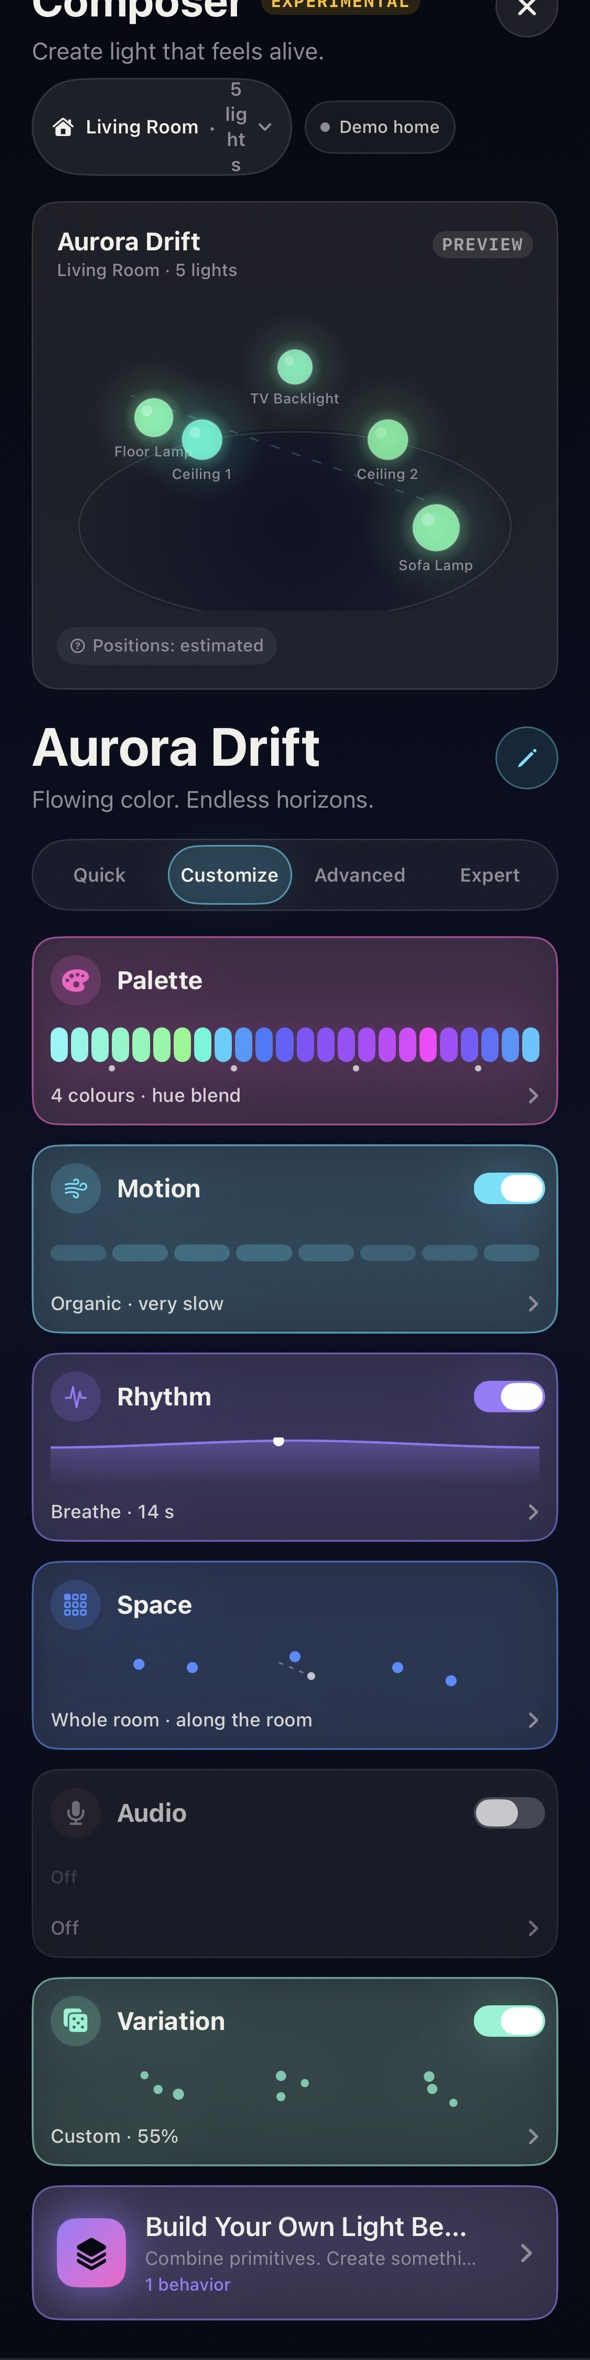
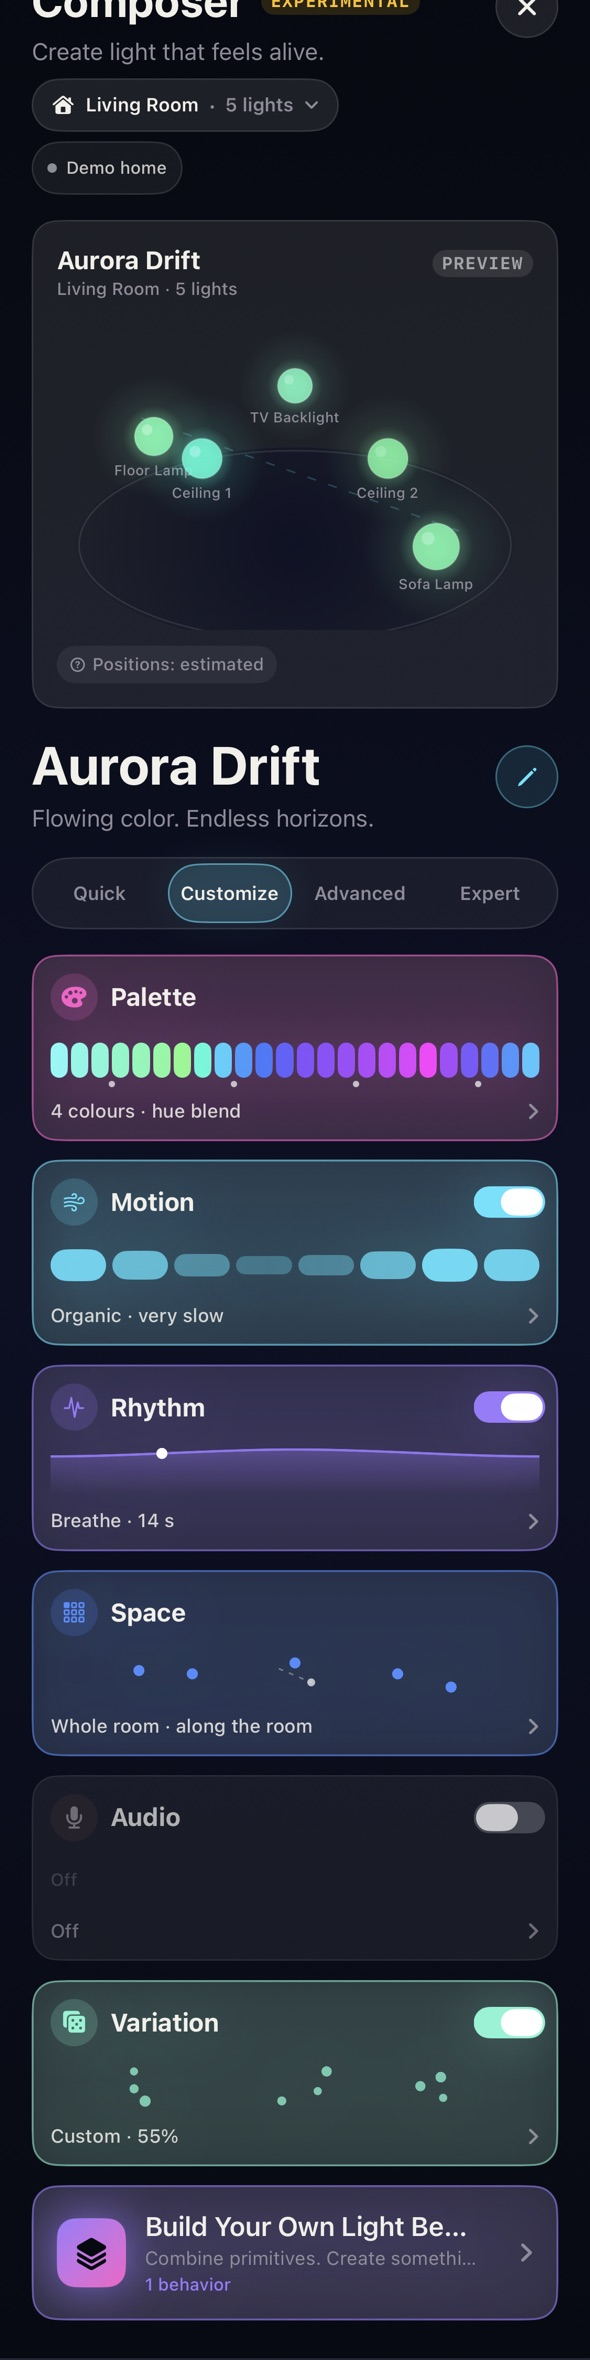
docs(composer2-lab): record, DEVLOG entry, refreshed renders, build 53
The lab's record (architecture, seam, presets, how to run, verified-vs-not,
limitations, removal recipe) under docs/ios/composer2-dream-studio, the
DEVLOG snapshot bullet + dated entry, review renders regenerated from the
full-suite run after the card-title and room-pill fitting fixes, and
CURRENT_PROJECT_VERSION 52 -> 53 in all twelve entries so a device install
of the experiment is distinguishable.

Full registered suite on this tree: 2198 passed / 0 failed / 0 skipped;
Scripts/hardening_guards.sh: all guards passed. Hardware not verified.

diff --git a/HueHome/UI/Composer2/Composer2Header.swift b/HueHome/UI/Composer2/Composer2Header.swift
@@ -26,9 +26,15 @@ struct Composer2Header: View {
                 Text(Composer2Copy.tagline)
                     .font(HueFont.subheadline)
                     .foregroundStyle(Composer2Theme.muted)
-                HStack(spacing: 8) {
-                    roomMenu
-                    stateChip
+                ViewThatFits(in: .horizontal) {
+                    HStack(spacing: 8) {
+                        roomMenu
+                        stateChip
+                    }
+                    VStack(alignment: .leading, spacing: 6) {
+                        roomMenu
+                        stateChip
+                    }
                 }
                 .padding(.top, 2)
             }
@@ -72,6 +78,8 @@ struct Composer2Header: View {
                 Text(Composer2Copy.lights(document.roomContext.lightCount))
                     .font(HueFont.stageChip)
                     .foregroundStyle(Composer2Theme.muted)
+                    .lineLimit(1)
+                    .fixedSize()
                 Image(systemName: "chevron.down")
                     .font(.system(size: 9, weight: .bold))
                     .foregroundStyle(Composer2Theme.muted)

diff --git a/HueHome/UI/Composer2/Composer2LayerCard.swift b/HueHome/UI/Composer2/Composer2LayerCard.swift
@@ -22,20 +22,21 @@ struct Composer2LayerCard<Preview: View>: View {
 
     var body: some View {
         VStack(alignment: .leading, spacing: 10) {
-            HStack(spacing: 10) {
+            HStack(spacing: 8) {
                 ZStack {
                     Circle()
                         .fill(accent.opacity(isOn ? 0.18 : 0.08))
-                        .frame(width: 32, height: 32)
+                        .frame(width: 30, height: 30)
                     Image(systemName: dimension.symbol)
-                        .font(.system(size: 14, weight: .semibold))
+                        .font(.system(size: 13, weight: .semibold))
                         .foregroundStyle(isOn ? accent : Composer2Theme.muted)
                 }
                 Text(dimension.title)
                     .font(HueFont.stageName)
                     .foregroundStyle(Composer2Theme.ink)
                     .lineLimit(1)
-                    .minimumScaleFactor(0.65)
+                    .minimumScaleFactor(0.55)
+                    .allowsTightening(true)
                     .layoutPriority(1)
                 Spacer(minLength: 2)
                 if showsToggle {

diff --git a/docs/ios/composer2-dream-studio/README.md b/docs/ios/composer2-dream-studio/README.md
@@ -1,0 +1,127 @@
+# Composer 2 — "Dream Studio" experiment
+
+**Branch:** `experiment/composer-2-dream-studio` (off `main` @ `c2368c8`). **Isolated product prototype.** Not a PR, not merged, `main` untouched.
+**Rollback:** `git switch main` — or delete the branch; tag `checkpoint/pre-composer2-dream-studio` marks the base.
+
+## What it is
+
+A one-shot prototype of the creative lighting instrument ChromaGlow should become: one screen where a normal person
+composes dynamic light from six understandable dimensions (Palette, Motion, Rhythm, Space, Audio, Variation), and an
+advanced user stacks behaviors with an event generator. Aurora Drift, Lava Lamp, Christmas Chase, Haunted House and
+Thunderstorm are all values of the same model — there are no per-preset engines.
+
+Entry point: Studio → composer deck → **"Try Composer 2 · Experimental"** (one card, one line in `StudioView.composerGrid`).
+
+## Architecture in one picture
+
+```
+Composer2Composition  (Codable document: master controls + [Composer2Layer])
+   └ Composer2Layer   mask · color (≤8 stops, OKLab) · motion · rhythm · audio · variation · events?
+          │
+   Composer2Engine.evaluate(composition, time, geometry, state, audio, beat) → [Composer2Frame]   (pure, seeded)
+          │
+   Composer2LiveOutput : CompositionFrameSource            ← the ONLY seam into the existing app
+          │
+   CompositionParamBox.frameSource  →  CompositionEngine.render(...)  (12-line hook, falls through on mismatch)
+          │
+   UnifiedOrchestrator.startCompositionMode / stopCompositionMode  (untouched: DTLS 25 fps or Room-mode REST,
+   per-bridge sessions, third-party detection, realized-frame ≤3 Hz flash gate, failover, SSE suppression, mic demand)
+```
+
+The hero visualization and the lights read the same frames: while a live loop drives the runtime the hero mirrors
+`lastFrames`; otherwise it evaluates the same runtime on its own clock. Every on-screen frame passes a preview-side
+onset gate (`BeatMath.FlashSafety.OnsetGate`), so the picture obeys the same ≤3 flashes/second rule as the wire.
+
+### Determinism
+
+Every random value is a pure function of `(seed, layer id, slot, cell/opportunity index)` — SplitMix64 streams and
+stateless hashes, never `Hasher`, never a clock. Events draw exactly twice per scheduling opportunity regardless of
+frame rate or audio; audio only tilts thresholds and multipliers. The same seed reproduces the same sequence;
+"Reseed" in the Variation editor gives a fresh take.
+
+### Blend semantics (documented, deliberately simple)
+
+Layers stack bottom-up over black. `replace` fades toward the layer; `add light` adds brightness with
+contribution-weighted colour; `brighter wins` keeps the brighter layer per light (5 % soft band). Final brightness is
+clamped 0…1 and chromaticity is clamped to gamut C; the orchestrator clamps again to the room's real gamut.
+
+## Files
+
+| Area | Files |
+|---|---|
+| Core (`HueHome/Core/Composer2/`) | `Composer2Random` (math, SplitMix64, hashing, value noise) · `Composer2Palette` (OKLab, stops, compiled palette) · `Composer2Space` (slot geometry from the orchestrator's radial/angular arrays, masks) · `Composer2Motion` · `Composer2Rhythm` · `Composer2Modulation` (audio + variation) · `Composer2Events` (spec, active event, seeded generator) · `Composer2Models` (blend, layer, composition) · `Composer2Engine` (state, plans, evaluate) · `Composer2LiveOutput` (the frame source) · `Composer2PresetLibrary` · `Composer2Store` (`Documents/composer2-compositions.json`) · `Composer2LegacyImport` |
+| UI (`HueHome/UI/Composer2/`) | `Composer2View` (cover root) · `Composer2Header` (+ title block) · `Composer2HeroCard` (canvas painter) · `Composer2ModeSelector` · `Composer2QuickPanel` · `Composer2CustomizeGrid` + `Composer2LayerCard` + `Composer2MiniPreviews` · `Composer2AdvancedPanel` · `Composer2ExpertStack` · `Composer2PerformanceBar` · `Composer2EntryCard` · `Composer2Document` · `Composer2SlotLayout` · `Composer2PreviewFeed` (+ heartbeat verdict) · `Composer2LiveGateway` (+ orchestrator adapter) · `Composer2PlaybackCenter` · `Composer2Theme` (tokens + all copy) · `Editors/` (scaffold, Palette, Motion, Rhythm, Space, Audio, Variation, Events) |
+| Existing files touched | `HueHome/UI/Studio/CompositionEngine.swift` (protocol + field + 8-line hook) · `HueHome/Core/Audio/AudioAnalysisEngine.swift` (`case composer2Preview`) · `HueHome/UI/Studio/StudioView.swift` (one line) · `HueHome.xcodeproj/project.pbxproj` (registration via `add_composer2_files.rb`, build 53) · `DEVLOG.md` |
+| Tests (`HueHomeTests/Composer2Lab*Tests.swift`) | Primitive · Layer · Event · Engine · Persistence · Preset · Lifecycle · Guard · Snapshot |
+
+## Live, Apply, Preview, Save
+
+- **Preview** runs the composition on screen only. The microphone is requested only when an audio-reactive layer is
+  enabled *and* preview or live is running (`AudioDemand.composer2Preview`).
+- **Live** is an audition: real output to the selected room, stopped when you leave the screen, change rooms, tap
+  Stop, or the transport ends. The status line says "Live · Streaming" or "Live · Room mode".
+- **Apply** keeps the composition playing after you leave; the Studio entry card then shows "Playing in ‹room› ·
+  Stop".
+- **Save** writes to Composer 2's own store. The legacy `compositions.json` is never read or written (test-proven).
+
+Refusals are honest and never silent: Demo Mode ("Live isn't available in Demo Mode…"), no bridge, a third-party
+controller ("Another app is controlling these lights. Take over from Studio, then try Live again."), several
+Entertainment Areas (plays Room mode and says why).
+
+## The five presets
+
+| Preset | Layers |
+|---|---|
+| Aurora Drift | organic flow along the room's principal axis, 4-stop hue-arc palette, 14 s breathe, organic variation with slow evolve |
+| Lava Lamp | organic base with evolving per-light timing + an add-light "blobs" layer on another axis |
+| Christmas Chase | stepped red/green/white chase (3 steps) + a fixed-interval single-light sparkle event layer |
+| Haunted House | dim base · candle flicker on a random half · slow violet pulse (brighter wins) · rare spatially-biased eerie flashes |
+| Thunderstorm | dark sky breathe · lightning event layer (random 6–18 s, 80 % chance, 1–3 flashes, spacing ≥ the flash budget, 15 % major strikes) |
+
+## How to run
+
+```bash
+git switch experiment/composer-2-dream-studio
+ruby add_composer2_files.rb                      # idempotent; already applied on the branch
+xcodebuild -project HueHome.xcodeproj -scheme "HueHome 1" -destination 'generic/platform=iOS' build 2>&1 | grep -E 'error:|BUILD'
+./Scripts/hardening_guards.sh
+xcodebuild test -project HueHome.xcodeproj -scheme "HueHome 1" \
+  -destination 'platform=iOS Simulator,id=76B14B66-1234-495A-B352-4BD35B785131' \
+  -only-testing:HueHomeTests/Composer2LabPrimitiveTests -only-testing:HueHomeTests/Composer2LabLayerTests \
+  -only-testing:HueHomeTests/Composer2LabEventTests -only-testing:HueHomeTests/Composer2LabEngineTests \
+  -only-testing:HueHomeTests/Composer2LabPersistenceTests -only-testing:HueHomeTests/Composer2LabPresetTests \
+  -only-testing:HueHomeTests/Composer2LabLifecycleTests -only-testing:HueHomeTests/Composer2LabGuardTests \
+  -only-testing:HueHomeTests/Composer2LabSnapshotTests -resultBundlePath /tmp/c2.xcresult
+./run_tests.sh                                   # full registered suite
+xcrun xcresulttool export attachments --path /tmp/c2.xcresult --output-path /tmp/c2-shots   # the review renders
+```
+
+On a phone: Studio → composer deck → Try Composer 2 → pick a room → Live. In the Simulator use Demo Mode
+(Splash → "Explore Demo"): Preview works, Live explains that it needs a paired bridge.
+
+## Verified vs not
+
+**Compile / unit verified:** everything above builds; the nine Composer2Lab suites and the full registered suite pass;
+`Scripts/hardening_guards.sh` passes; the review renders are in `screenshots/`.
+
+**Hardware NOT verified:** real Streaming and Room-mode output, the flash gate on a bridge, replacement by a Studio
+card while applied, Apply surviving dismissal on a phone, the third-party refusal, microphone-reactive layers live,
+multi-bridge rooms. Nothing here claims hardware behavior.
+
+## Known limitations
+
+- The Dashboard's Now Playing bar does not know about Composer 2 playback (Studio's stop handler has no row for it,
+  so registering one would be a Stop that doesn't stop). Stop from the Composer 2 screen or the entry card's pill.
+- Third-party takeover is refused with a pointer to Studio; Composer 2 never asks the takeover question (Guard 11(c)).
+- Streaming slot→light labels come from the cached area selection; if the orchestrator chooses a different area the
+  labels can be off until the next start (geometry and motion stay correct — they come from the box).
+- Room mode: a gradient strip's extra render slots share one light name; positions are estimated (labelled).
+- Legacy Composer presets import into one layer (`Composer2LegacyImport`); Composer 2 compositions do not export back.
+- The hero's estimated layout also drives the on-screen preview geometry (so motion reads spatially on screen); the
+  live loop always uses the orchestrator's own slot order.
+
+## Removing the experiment
+
+Delete `HueHome/Core/Composer2/`, `HueHome/UI/Composer2/`, the nine `HueHomeTests/Composer2Lab*Tests.swift`,
+`add_composer2_files.rb`, this folder; revert the hook in `CompositionEngine.swift`, the `composer2Preview` case, the
+one line in `StudioView.swift`, and the pbxproj entries. Nothing else references the lab (guard-tested).

diff --git a/DEVLOG.md b/DEVLOG.md
@@ -4,13 +4,20 @@
 
 ---
 
-## Current Status Snapshot (updated 2026-09-02)
+## Current Status Snapshot (updated 2026-09-15)
 
 ### Pointers
 - Canonical agent context: `AGENTS.md`. Claude Code entry point: `CLAUDE.md` points there.
 - Live shared handoff: append-only entries in this `DEVLOG.md`. Git is the shared memory between tools.
 
 ### iOS — where we are RIGHT NOW
+- **COMPOSER 2 "DREAM STUDIO" PROTOTYPE — ISOLATED EXPERIMENT BRANCH, NOT MERGED (2026-09-15).** Branch
+  `experiment/composer-2-dream-studio` (base `main` @ `c2368c8`, rollback tag `checkpoint/pre-composer2-dream-studio`).
+  A one-shot product prototype of the creative lighting instrument: universal layer model + seeded pure engine +
+  event generator under `HueHome/Core/Composer2/`, the full-screen surface under `HueHome/UI/Composer2/`, five
+  demonstration presets, its own store, and a 12-line `CompositionFrameSource` hook in `CompositionEngine.render` so
+  live output rides the existing transport, gate and stop paths. Suite 2198/2198, guards green, **hardware NOT
+  verified**. Record: `docs/ios/composer2-dream-studio/README.md`. Nothing on `main` changed. Entry below.
 - **`main` is the current production anchor and the branch Brian installs from**
   (Xcode → physical iPhone, scheme **`HueHome 1`**, marketing version **1.0.0**, build **52** per `main`'s pbxproj).
 - **The repository moved out of iCloud (2026-09-02):** canonical path is now
@@ -666,6 +673,60 @@
 ### Gotchas
 - ...
 ```
+
+---
+
+## 2026-09-15 - [Claude] Composer 2 "Dream Studio" — one-shot product prototype on an isolated branch
+
+**Branch:** `experiment/composer-2-dream-studio` (base `main` @ `c2368c8`). **Isolated experiment — no PR, no merge, `main` untouched.**
+**Rollback:** `git switch main`; tag `checkpoint/pre-composer2-dream-studio` at the base.
+**Record:** `docs/ios/composer2-dream-studio/README.md` (+ `screenshots/`).
+
+### Did
+- Built the prototype the brief asked for: a full-screen creative instrument (Studio → composer deck → "Try Composer 2")
+  with a live room hero, Quick / Customize / Advanced / Expert views over ONE document, six dimension cards with
+  mini-previews, seven editors, the "Build Your Own Light Behavior" stack, and Preview · Live · Save · Apply.
+- New universal behavior model under `HueHome/Core/Composer2/`: `Composer2Composition` = master controls + `[Composer2Layer]`;
+  a layer = mask · palette (≤8 stops, OKLab hue-arc/linear/stepped) · motion (still/flow/chase/wave/bounce/scatter/organic)
+  · rhythm (steady/breathe/pulse/heartbeat/flicker/swell/burst, periods floored at `minOnsetLedgerPeriod`) · audio
+  modulation · variation (seeded) · optional event generator (fixed/random interval, probability, bursts, spacing,
+  duration, decay, targeting incl. spatial bias, cooldown, rare major strikes). Pure `Composer2Engine.evaluate`, SplitMix64
+  + stateless hashing (never `Hasher`, never a clock), events draw exactly twice per opportunity so the same seed replays.
+- Five demonstration presets from those primitives only (Aurora Drift, Lava Lamp, Christmas Chase, Haunted House,
+  Thunderstorm with tunable lightning); a separate store (`Documents/composer2-compositions.json`); a legacy-preset importer.
+- **Integration seam (the only edits to existing code):** `protocol CompositionFrameSource` + `CompositionParamBox.frameSource`
+  + an 8-line early return at the top of `CompositionEngine.render` (falls through on a count mismatch). Live output goes
+  through `startCompositionMode`/`stopCompositionMode` with a legacy box whose frame source is the Composer 2 runtime, so
+  DTLS/Room-mode selection, third-party detection, the realized-frame ≤3 Hz gate, failover, SSE suppression and mic
+  demand are inherited. `AudioDemand.composer2Preview` (1 line) for on-screen previews of audio layers. One line in
+  `StudioView.composerGrid` mounts the self-contained entry card. `UnifiedOrchestrator` is NOT edited.
+- Playback center: Live = audition (stops on dismiss/room change/Stop/transport end), Apply = keeps playing (entry card
+  shows "Playing in ‹room› · Stop"); heartbeat marks the session ended when another look takes the room and never calls
+  stop on a runtime it no longer owns; third-party controllers are refused honestly (no takeover question asked —
+  Guard 11(c) stays untouched).
+
+### Validation
+- `xcodebuild … generic/platform=iOS build`: BUILD SUCCEEDED, no Composer2 warnings.
+- `./Scripts/hardening_guards.sh`: all guards passed.
+- Nine `Composer2Lab*` suites: 123 (nine suites: Primitive 23 · Layer 16 · Event 17 · Engine 15 · Persistence 10 · Preset 8 · Lifecycle 16 · Guard 9 · Snapshot 9) tests green (determinism, event ranges/probability, palette/gamut C, motion &
+  brightness bounds, masks, blend, Codable round trips, legacy store untouched, five presets ≤3 Hz, lifecycle against a
+  fake gateway, source guards, snapshot renders).
+- Full registered suite via `./run_tests.sh`: **2198 passed / 0 failed / 0 skipped** (`xcresulttool`, `-maximum-parallel-testing-workers 2`; a three-worker run was killed by memory pressure at 1170/0 and rerun).
+- **Hardware: NOT verified.** Real Streaming/Room-mode output, the gate on a bridge, replacement while applied, mic layers
+  live, multi-bridge rooms — all unproven; nothing here claims hardware behavior.
+
+### Left / limitations
+- Now Playing bar does not know about Composer 2 playback (by design — Studio's stop handler has no row for it).
+- Takeover is refused, not prompted; several Entertainment Areas ⇒ Room mode with an explanation.
+- Streaming slot labels come from the cached area selection; Room-mode positions are estimated and labelled.
+- Composer 2 documents do not export back to legacy presets.
+
+### Gotchas
+- The Phase-1 `Composer2*` guard tests scan EVERY production file for specific substrings (`Composer2Transport`,
+  `Composer2Producer`, `Composer2Resolver`, `Composer2Flag`, …) including comments — the lab's names avoid them and
+  `Composer2LabGuardTests` pins that.
+- Cycling palettes space stops at i/n (the last stop sat on the wrap point at i/(n−1) and was never shown).
+- Both convergence slices (PR #64, PR #65) are on `main` — the older snapshot text calling Slice 3 unmerged is stale.
 
 ---
 
